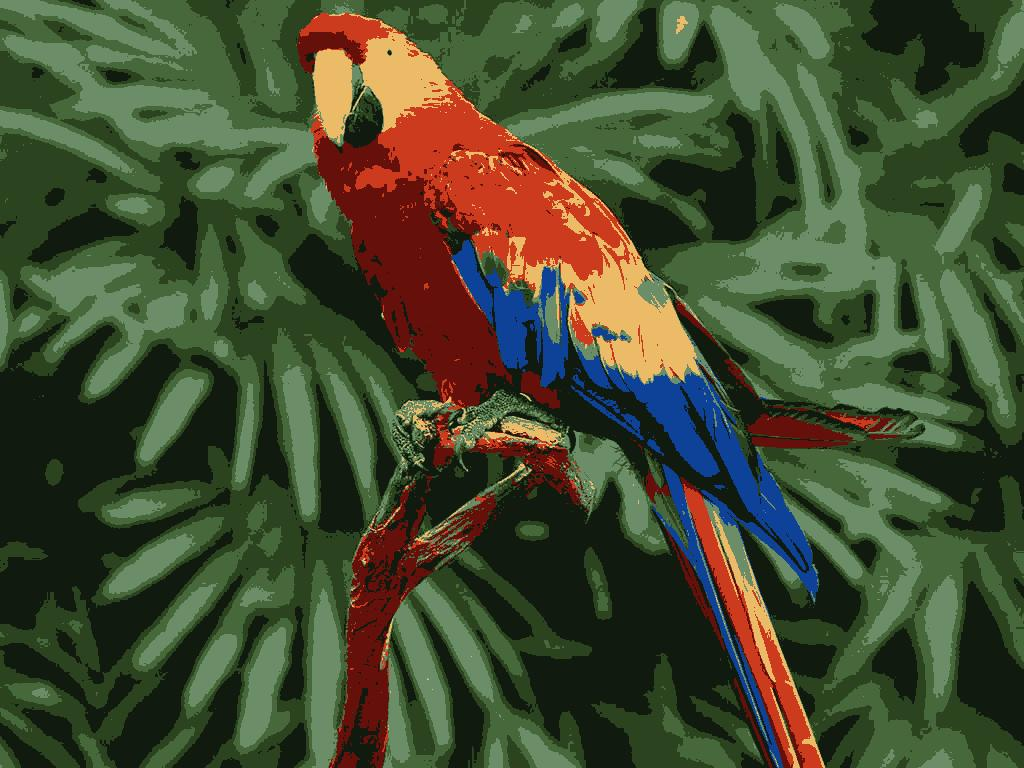
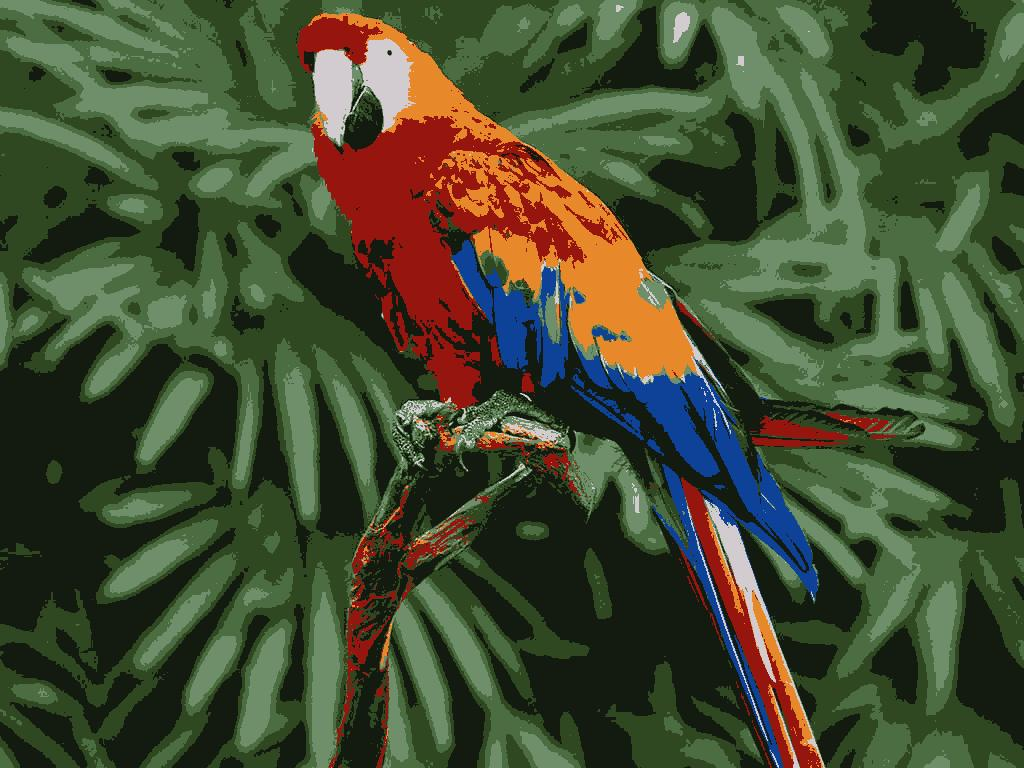
make latch not static

diff --git a/code/ParallelKmeans.java b/code/ParallelKmeans.java
@@ -8,11 +8,11 @@ import java.util.concurrent.Executors;
 
 public class ParallelKmeans {
 
-    private static final int MAX_ITERATIONS = 10;
-    private static CountDownLatch countDownLatch;
+    private int maxIterations = 10;
+    private CountDownLatch countDownLatch;
     private final int n;
     private final int k;
-    public int numThreads = 1;
+    private int numThreads = 1;
     List<Observation> observations = new ArrayList<>();
     float[][] clusterCenters;
 
@@ -20,6 +20,14 @@ public class ParallelKmeans {
         this.n = n;
         this.k = k;
         clusterCenters = new float[k][n];
+    }
+
+    public void setNumThreads(int numThreads){
+        this.numThreads = numThreads;
+    }
+
+    public void setMaxIterations(int maxIterations){
+        this.maxIterations = maxIterations;
     }
 
     public void assignStep(ExecutorService executorService, AssignWorker[] assignWorkers) throws InterruptedException {
@@ -78,7 +86,7 @@ public class ParallelKmeans {
             assignWorkers[i] = new AssignWorker(chunk);
             updateWorkers[i] = new UpdateWorker(chunk);
         }
-        for (int i = 0; i < MAX_ITERATIONS; i++) {
+        for (int i = 0; i < maxIterations; i++) {
             assignStep(executorService, assignWorkers);
             updateStep(executorService, updateWorkers);
         }

diff --git a/code/Demo.java b/code/Demo.java
@@ -7,6 +7,7 @@ import java.io.IOException;
 public class Demo {
     public static void main(String[] args) throws IOException, InterruptedException {
         ParallelKmeans k = new ParallelKmeans(3, 8);
+        k.setMaxIterations(200);
         BufferedImage image = ImageIO.read(new File("Parrot.jpg"));
 
         int width = image.getWidth();
@@ -24,7 +25,7 @@ public class Demo {
         final int maxThreads = Runtime.getRuntime().availableProcessors() * 2;
         System.out.println("Threads   time");
         for (int i = 1; i <= maxThreads; i++) {
-            k.numThreads = i;
+            k.setNumThreads(i);
             long tic = System.currentTimeMillis();
             k.cluster();
             System.out.println(i + "         " + (System.currentTimeMillis() - tic));
